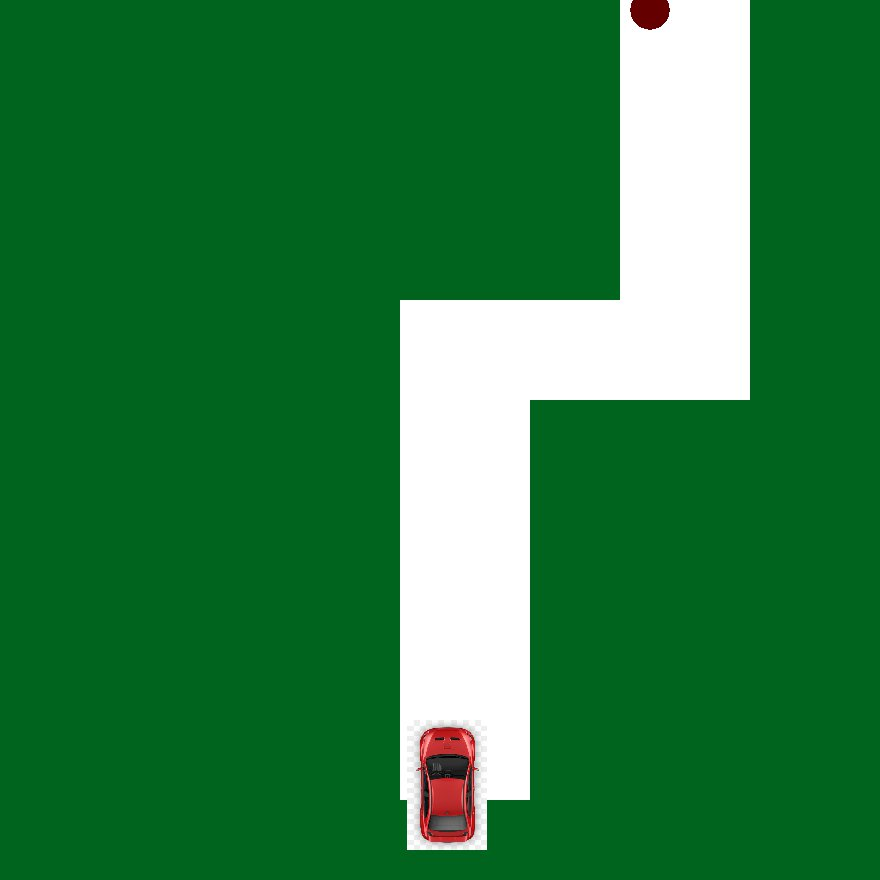
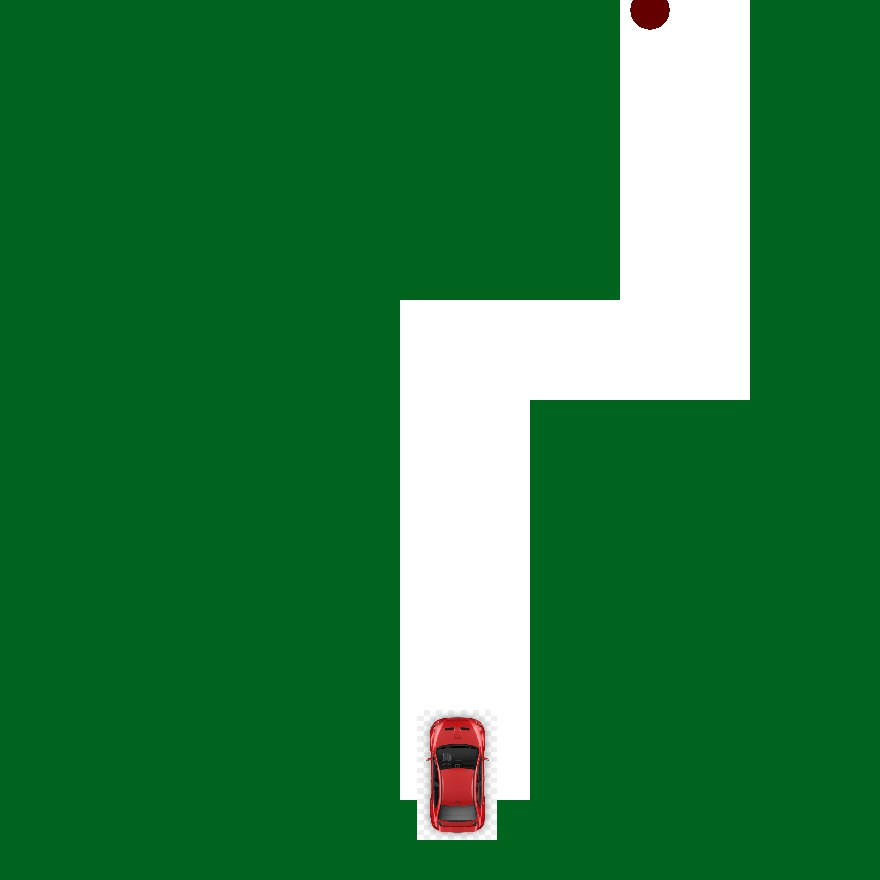
fixed boundary bug

Changed region(s): [[0.4602, 0.7977, 0.583, 0.9818]]

diff --git a/network/dqn.py b/network/dqn.py
@@ -41,10 +41,6 @@ class Environment:
     def identify_state(self, obs):
         self.box = []
         st = obs.reshape(880, 880, 3)
-        '''for i in range(880):
-            for j in range(880):
-                if st[i][j][0] == 255:
-                    print("(", i, j, ")")'''
 
         green = 0
         white = 0
@@ -54,6 +50,8 @@ class Environment:
         width = self.track.car.boundary["x"]
         height = self.track.car.boundary["y"]
 
+        if pos[0] < 15 or pos[0] > 785 or pos[1] < 15 or pos[1] > 735:
+            return -3
 
         for i in range(height):
             #left wall
@@ -73,19 +71,11 @@ class Environment:
 
         #count greens and whites come up with ratio
         for i in range(len(self.box)):
-            #green
-
             val = st[int(self.box[i][2])][int(self.box[i][1])][0]
-            if i == 1:
-                print("val ->", val)
-                print("real val -> ", st[417, 720])
-
             if val != 255:
                 green += 1
             else:
                 white += 1
-
-
 
 
         ratio = white / max(green, 1)
@@ -105,16 +95,14 @@ class Environment:
             if self.track.car.x - self.track.endPos[0] < 30 and self.track.car.y - self.track.endPos[1] < 30:
                 self.reward = 1
                 self.done = True
-
-            self.reward = (1 / max(penalty, 1)) / 5
+            if penalty != -3:
+                self.reward = (1 / max(penalty, 1)) / 5
+            else:
+                self.reward = 0
+                self.done = True
 
         print("reward ", self.reward)
         return self.state, self.reward, self.done, 1
-
-    def checkProgress(self, car):
-        #if car is in green no reward
-        pass
-        #if car is in white(road) add reward or postpone
 
     def reset(self):
         self.agent = Car(self.carCt)
